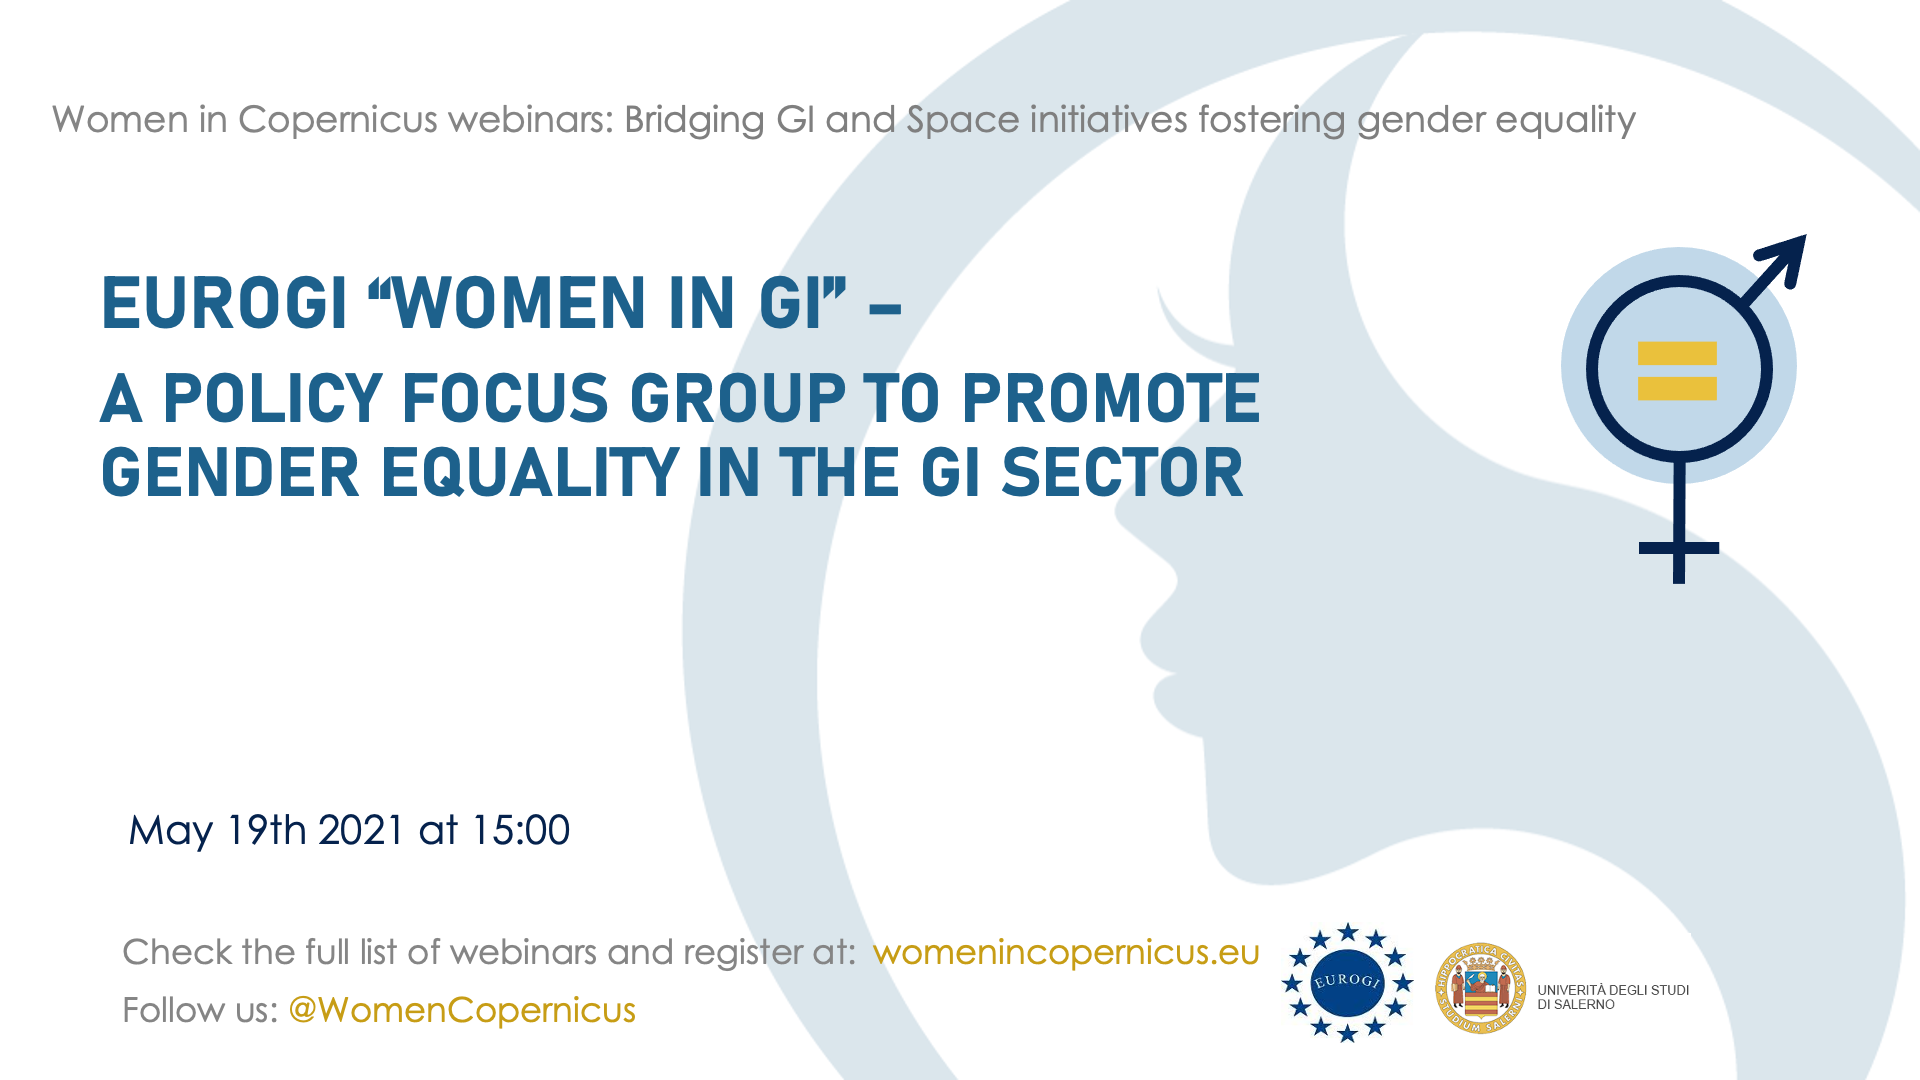
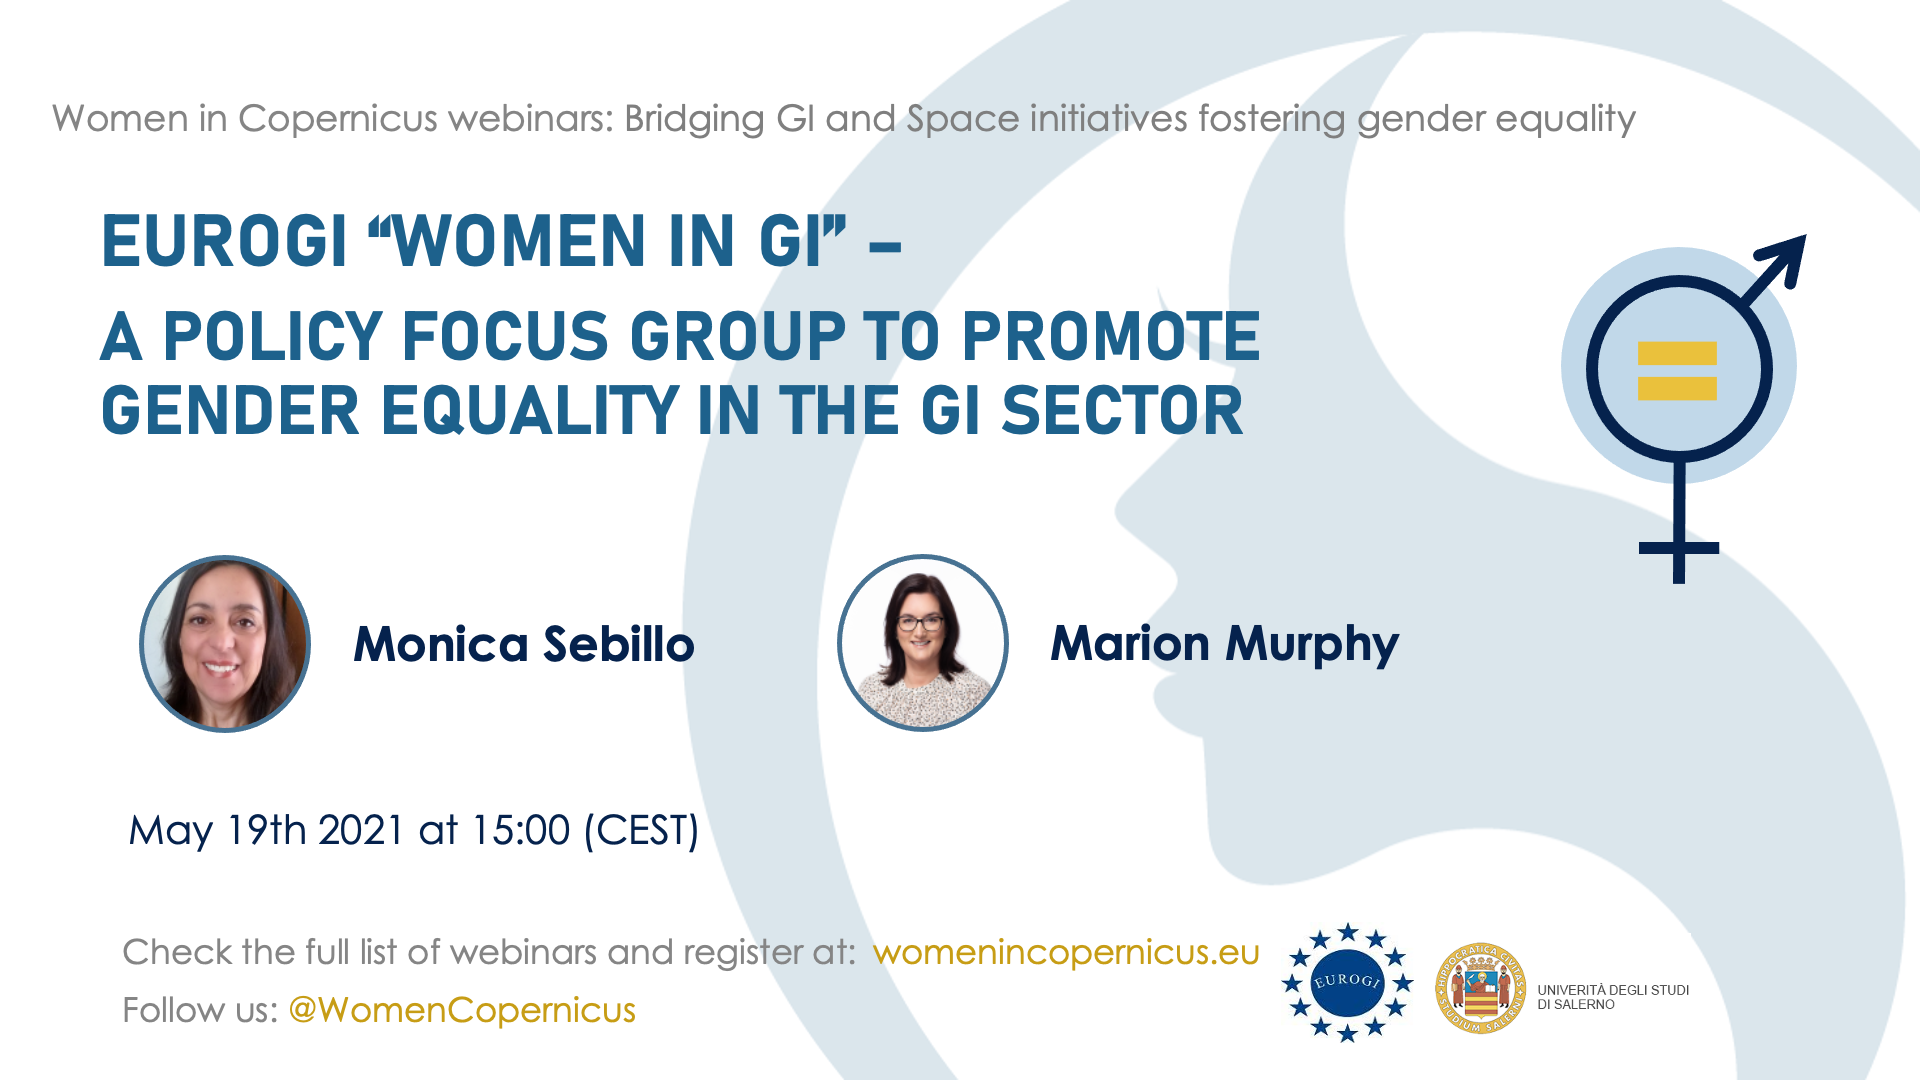
update webinars

diff --git a/events.html b/events.html
@@ -118,23 +118,6 @@
 				<div class="row">
 					<div class="col-lg-12">
 						<blockquote class="generic-blockquote">
-
-							<div class="row">
-								<div class="col-md-6">
-									<br>
-									<img src="img/april_webinars.png" alt="" class="img-fluid">
-									<br>
-								</div>
-								<div class="col-md-6 mt-sm-20 left-align-p">
-									<br> <br>
-									<h4>April - May 2021</h4>
-									<p>'Bridging GI and Space initiatives fostering gender equality' webinar series</p>
-									<p> Register <a href="https://forms.gle/trS8746uUsBX3isH7" target="_blank"
-											rel="noopener noreferrer">here </a> to attend webinars
-										<br>
-									</p>
-								</div>
-							</div>
 							<div class="row">
 								<div class="col-md-4 mb-4">
 									<br>
@@ -148,6 +131,10 @@
 										recommendations towards gender equality in the Copernicus ecosystem</h3>
 									<p> Register <a href="https://forms.gle/trS8746uUsBX3isH7" target="_blank"
 											rel="noopener noreferrer">here </a> to attend webinars
+										<br>
+									</p>
+									<p> Watch the recording <a href="https://youtu.be/hTRypwoudTY" target="_blank"
+											rel="noopener noreferrer">here </a>
 										<br>
 									</p>
 								</div>
@@ -204,6 +191,10 @@
 									</h3>
 									<p> Register <a href="https://forms.gle/trS8746uUsBX3isH7" target="_blank"
 											rel="noopener noreferrer">here </a> to attend webinars
+										<br>
+									</p>
+									<p> Watch the recording <a href="https://youtu.be/yZMA2jJV72Y" target="_blank"
+											rel="noopener noreferrer">here </a>
 										<br>
 									</p>
 								</div>
@@ -284,6 +275,10 @@
 											rel="noopener noreferrer">here </a> to attend webinars
 										<br>
 									</p>
+									<p> Watch the recording <a href="https://youtu.be/QJINW-VpUpA" target="_blank"
+											rel="noopener noreferrer">here </a>
+										<br>
+									</p>
 								</div>
 							</div>
 							<div class="row">
@@ -319,18 +314,28 @@
 									<img src="img/events/alissa.png" alt="Webinar WiC" class="img-fluid">
 								</div>
 								<div class="col-md-10">
-									<h4>Alissa J. Haadaji</h4>
-									<p>Dr. Alissa J. Haddaji is a faculty researcher and lecturer in Space Law, Policy and Ethicsat Harvard University and
-									Harvard Law School. She founded and leads the Space Consortium at Harvard & MIT.Her expertise is in Natural Space Threat
-									Management, more specifically, Planetary Protection and Planetary Defense. She is the coordinator of the United
-									Nations-mandatedSMPAG Legal Working Group on Planetary Defense. Prior to her Planetary Defense work,sheserved for four
-									years as COSPAR’s Planetary Protection Project Officer, where she co-authored and led the coordination ofthe
-									International Planetary Protection Handbook (IPPH) and of its subsequenttrainings in America, Europe and Asia.She is a
-									UNOOSA Space4Women Mentor where sheadvises a class of 12 menteesand organizes monthlymentee webinars forall UNOOSA
-									Space4Women mentees. Duringeach of these 90min monthly webinars, a prominentwomanof thespace industryisinvited toshare
-									herlife journeyand advice for the next generation andparticipate in a live Q&Awith the UNOOSA S4W mentees. Alissa J.
-									Haddaji is alsoanInternational Institute of Space Law(IISL)and an International Astronautical Federation (IAF)member and
-									the COSPAR point of contact at SGAC.</p>
+									<h4>Alissa J. Haddaji</h4>
+									<p>Dr. Alissa J. Haddaji is a faculty researcher and lecturer in Space Law, Policy
+										and Ethics at Harvard University and
+										Harvard Law School. She founded and leads the Space Consortium at Harvard & MIT.
+										Her expertise is in Natural Space Threat
+										Management, more specifically, Planetary Protection and Planetary Defense. She
+										is the coordinator of the United
+										Nations-mandated SMPAG Legal Working Group on Planetary Defense. Prior to her
+										Planetary Defense work, she served for four
+										years as COSPAR’s Planetary Protection Project Officer, where she co-authored
+										and led the coordination of the
+										International Planetary Protection Handbook (IPPH) and of its subsequent
+										trainings in America, Europe and Asia. She is a
+										UNOOSA Space4Women Mentor where she advises a class of 12 mentees and organizes
+										monthly mentee webinars for all UNOOSA
+										Space4Women mentees. During each of these 90min monthly webinars, a prominent
+										woman of the space industry is invited to share
+										her life journey and advice for the next generation and participate in a live
+										Q&A with the UNOOSA S4W mentees. Alissa J.
+										Haddaji is also an International Institute of Space Law (IISL) and an
+										International Astronautical Federation (IAF) member and
+										the COSPAR point of contact at SGAC.</p>
 									<br>
 								</div>
 							</div>
@@ -470,6 +475,30 @@
 									</p>
 								</div>
 							</div>
+							<div class="row">
+								<div class="col-md-2">
+									<img src="img/events/miriam.png" alt="Webinar WiC" class="img-fluid">
+								</div>
+								<div class="col-md-10">
+									<h4>Miriam Gonzalez</h4>
+									<p> Miriam has built a career in Geospatial startups. Currently she is doing
+										Partnerships at UP42. She is Geochicas
+										co-founder and President of the Board in HOTOSM. She is passionate about how
+										Geospatial data and EO technologies can
+										change the world.</p>
+									<br>
+								</div>
+								<div class="col-md-2">
+									<img src="img/events/maria.png" alt="Webinar WiC" class="img-fluid">
+								</div>
+								<div class="col-md-10">
+									<h4>María Ballesteros</h4>
+									<p>María is a Oceanographer who turned the wheel of her career towards GIS working
+										in different roles top Geospatial
+										companies and is part of Geochicas. She believe in tech sector open for all and
+										inclusive.</p>
+								</div>
+							</div>
 
 
 							<div class="row">
@@ -482,7 +511,7 @@
 									<br> <br>
 									<h4>19/05/2021 at 15:00 CET</h4>
 									<h3>EUROGI “WOMEN IN GI” –
-										A policy focus group to promote gender equality in the gi sector</h3>
+										A policy focus group to promote gender equality in the GI sector</h3>
 									<p> Register <a href="https://forms.gle/trS8746uUsBX3isH7" target="_blank"
 											rel="noopener noreferrer">here </a>
 										to attend webinars
@@ -491,6 +520,44 @@
 								</div>
 							</div>
 
+							<div class="row">
+								<div class="col-md-2">
+									<img src="img/events/monica.png" alt="Webinar WiC" class="img-fluid">
+								</div>
+								<div class="col-md-10">
+									<h4>Monica Sebillo</h4>
+									<p>Monica Sebillo is an Associate Professor in Information Processing Systems at the
+										Department of Computer Science,
+										University of Salerno (Italy). She received a PhD degree in Applied Math and
+										Computer Science. Monica is an ACM senior
+										member and the president of AMFM GIS Italia, member of EUROGI. Her research
+										interests include spatial databases and
+										geographic information systems, Human-GIS interaction and territorial
+										intelligence services. As GIS Laboratory Director,
+										Monica is involved in international and national research projects and has
+										several collaborations with national and
+										international institutions. She also collaborates with primary and secondary
+										schools to promote geo-education
+										initiatives. Monica is the author of more than 100 publications in international
+										journals and conference proceedings.
+									</p>
+									<br>
+								</div>
+								<div class="col-md-2">
+									<img src="img/events/marion.png" alt="Webinar WiC" class="img-fluid">
+								</div>
+								<div class="col-md-10">
+									<h4>Marion Murphy</h4>
+									<p>Marion Murphy is the Managing Director at Mallon Technology Ltd. She has been
+										instrumental in growing the company from a
+										small team to one of the largest GI service providers in Ireland, delivering GI
+										and EO projects for a range of public
+										and private sector clients. Marion holds a BSc in Technology Management. She is
+										an executive committee member of IRLOGI
+										and represents Mallon as a member of EUROGI.
+									</p>
+								</div>
+							</div>
 
 							<div class="row">
 								<div class="col-md-4 mb-4">
